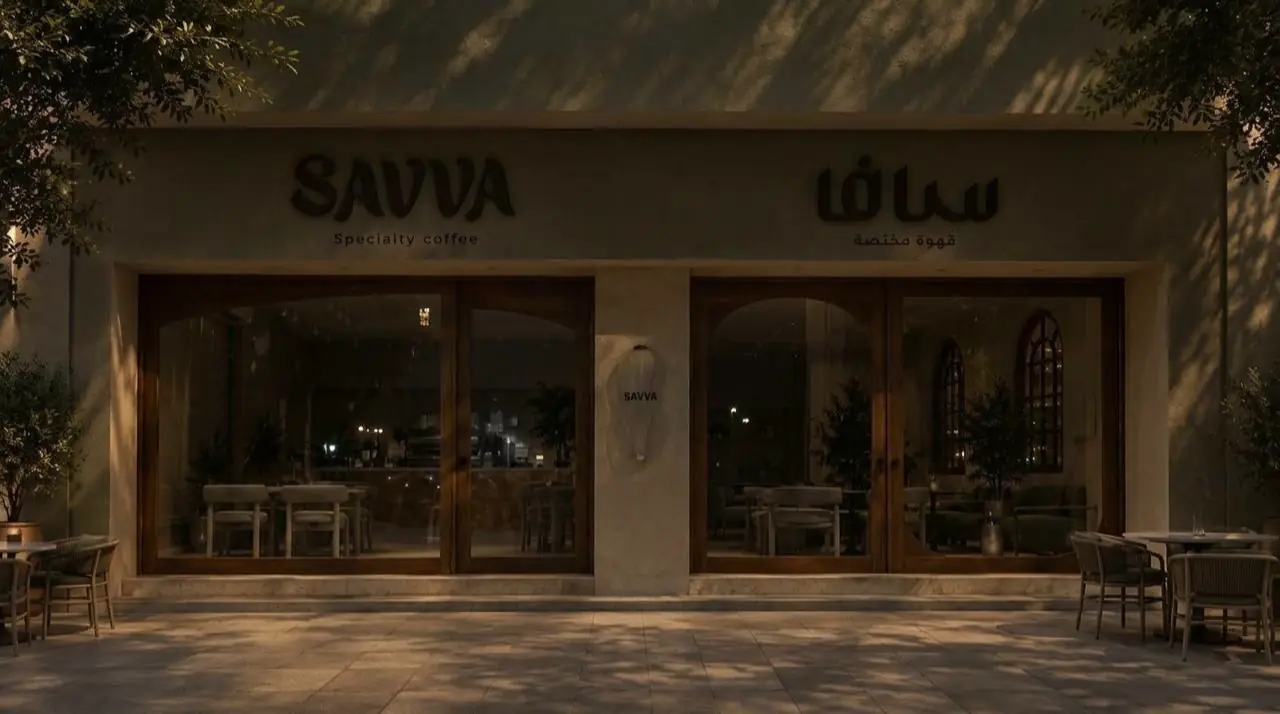
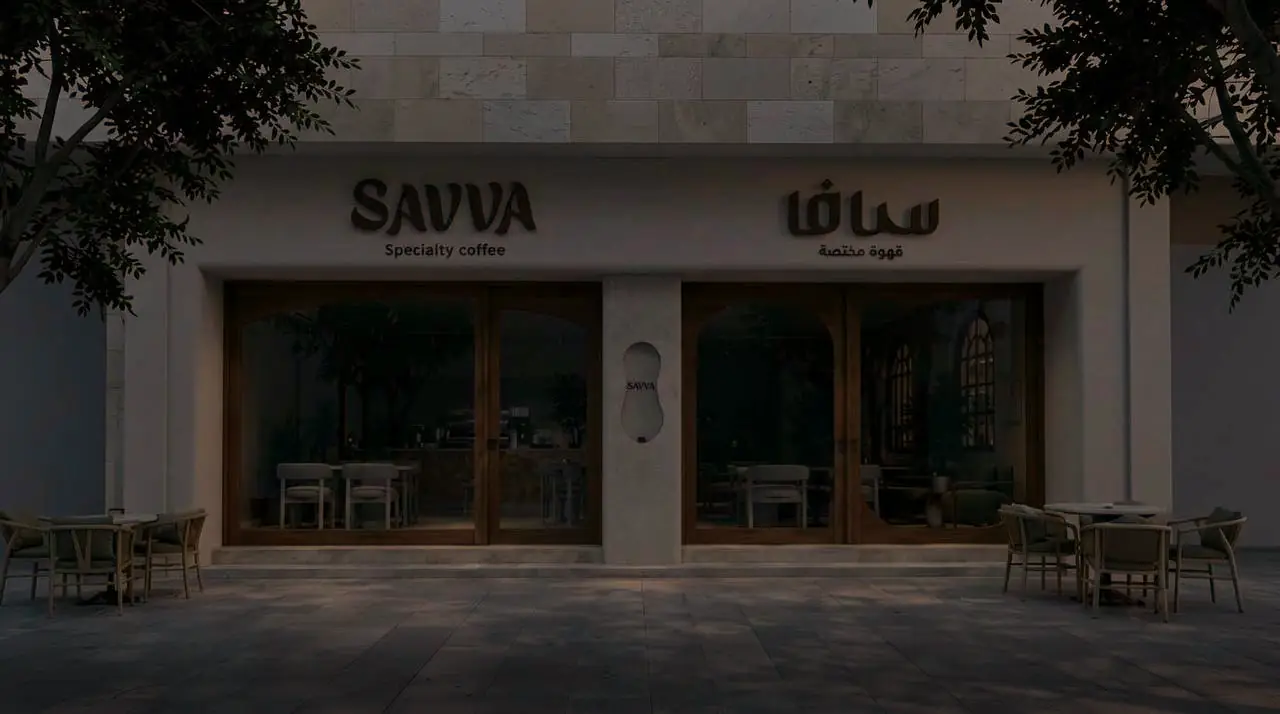
изменил херо на телефонной версии

diff --git a/index.html b/index.html
@@ -183,17 +183,18 @@ svg.i--s{width:15px;height:15px;stroke-width:1.92}   /* 1.6px на сетке 18
 
 /* ---------- 6. ПОЛНЫЙ КАДР ------------------------------------- */
 /* Кадр на всю высоту. Текст — компактным блоком в левом нижнем углу,
-   фасад и обе вывески остаются открытыми. Тень не растянута на пол-экрана,
-   а лежит пятном ровно под блоком: сам кадр она почти не трогает. */
+   фасад и обе вывески остаются открытыми.
+   Затемнения поверх кадра нет (решение заказчика 8 окт): тень лежит только
+   у самих букв и появляется вместе с текстом. Текст стоит на тротуаре,
+   а не на светлых окнах — читается за счёт места, а не плёнки. */
 /* тёмный фон самой секции — чтобы кремовый текст не пропал,
    если фотография почему-то не загрузится */
 #v6{position:relative;background:var(--olive-deep)}
 #v6 .facade{position:absolute;inset:0;height:100%}
-#v6 .wash{position:absolute;inset:0;z-index:2;pointer-events:none;
-  background:radial-gradient(ellipse 90% 55% at 0% 100%,
-             rgba(26,24,15,.93) 0%,rgba(26,24,15,.88) 45%,rgba(26,24,15,.78) 70%,
-             rgba(26,24,15,.45) 85%,rgba(26,24,15,.15) 95%,transparent 100%)}
-[dir=rtl] #v6 .wash{transform:scaleX(-1)}
+#v6 .col{--ts:0 1px 2px rgba(26,24,15,.6),0 0 12px rgba(26,24,15,.5),0 0 32px rgba(26,24,15,.45)}
+#v6 .over,#v6 .display,#v6 .lead,#v6 .btn{text-shadow:var(--ts)}
+/* надзаголовок мелкий и стоит ближе всех к освещённому входу — тень плотнее */
+#v6 .over{text-shadow:0 1px 2px rgba(26,24,15,.8),0 0 8px rgba(26,24,15,.65),0 0 24px rgba(26,24,15,.5)}
 #v6 .stage{position:relative;z-index:3;min-height:calc(100svh - var(--bar));
            display:flex;align-items:flex-end;padding-block:0 clamp(40px,7svh,80px)}
 #v6 .col{max-width:400px}
@@ -212,23 +213,31 @@ svg.i--s{width:15px;height:15px;stroke-width:1.92}   /* 1.6px на сетке 18
 
 @media (max-width:980px){
   .hdr nav{display:none}
-  /* на узком экране текст лежит колонкой снизу — значит и сход должен
-     идти снизу вверх, а не от левого края */
-  #v6 .wash{background:linear-gradient(to top,rgba(26,24,15,.92) 0%,rgba(26,24,15,.88) 26%,
-            rgba(26,24,15,.76) 42%,rgba(26,24,15,.4) 56%,rgba(26,24,15,.1) 68%,transparent 78%)}
   #v6 .col{max-width:none}
   /* на телефоне две кнопки в ряд не помещаются и блок растёт в два этажа.
      Вторая становится Ссылкой-стрелкой — компонент из той же системы */
   #v6 .btn--secondary{border:0;padding:14px 0}
-  [dir=rtl] #v6 .wash{transform:none}
   #v6 .lead{max-width:none}
 }
 /* вертикальный кадр (телефон стоя): фасад целиком в верхней половине,
-   текст на тротуаре. Кадр чуть крупнее и сдвинут вверх, чтобы между окнами
-   и текстом остался воздух; сход начинается ниже окон и фасад не трогает */
-#v6.tall .frame{--zoom:1.12;--fy:55%}
-#v6.tall .wash{background:linear-gradient(to top,rgba(26,24,15,.9) 0%,rgba(26,24,15,.86) 30%,
-          rgba(26,24,15,.7) 40%,rgba(26,24,15,.35) 47%,transparent 55%)}
+   текст на тротуаре. Кадр уже собран так, что фасад заполняет ширину
+   экрана, поэтому без увеличения */
+#v6.tall .frame{--fy:50%}
+/* широкий кадр (компьютер): фасад отодвинут, но тротуара в кадре мало.
+   Решение заказчика 8 окт: текст меньше и ниже, кнопки прежние — они ведут
+   к главным действиям. Кадр прижат к низу: если не влезает по высоте,
+   обрезается каменная стена сверху, а не тротуар под текстом. */
+#v6:not(.tall) .frame{--fy:100%}
+@media (min-width:981px){
+  #v6:not(.tall) .stage{padding-block-end:28px}
+  #v6:not(.tall) .col{max-width:680px}
+  #v6:not(.tall) .over{margin-bottom:6px}
+  /* две ровные строки вместо трёх: переносы <br> только для узких экранов */
+  #v6:not(.tall) .display{font-size:clamp(28px,2.1vw,34px);max-width:13em;text-wrap:balance}
+  #v6:not(.tall) .display br{display:none}
+  #v6:not(.tall) .lead{margin-top:8px;font-size:15px;max-width:none}
+  #v6:not(.tall) .acts{margin-top:16px}
+}
 @media (max-width:620px){
   .hdr{gap:16px;padding-block:14px}
 }
@@ -446,7 +455,6 @@ html.anim .sec[data-anim=words] .slot--photo.a-in img{transform:none;transition:
 
 <section class="v" id="v6">
   <div class="facade" style="--fy:46%"></div>
-  <span class="wash"></span>
   <header class="hdr hdr--photo on-photo">
     <a class="brand" href="#"><b>SAVVA</b></a>
     <nav><a href="#menu1">Menu</a><a href="#inside">Atmosphere</a><a href="#find1">Find us</a></nav>
@@ -457,7 +465,7 @@ html.anim .sec[data-anim=words] .slot--photo.a-in img{transform:none;transition:
     <div class="wrap">
       <div class="col">
         <p class="over ent" style="--d:1500ms">Bir Uthman, Medina</p>
-        <p class="display ent" style="--d:1600ms">A day in savva<br>is what you need<br>to be savva.</p>
+        <p class="display ent" style="--d:1600ms">A day in savva <br>is what you need <br>to be savva.</p>
         <p class="lead ent" style="--d:1750ms">Specialty coffee under the olive trees. Open from half past six in the morning until two at night.</p>
         <div class="acts ent" style="--d:1900ms">
           <a class="btn btn--primary" href="https://www.google.com/maps/search/?api=1&query=SAVVA+Coffee+Bir+Uthman+Madinah"><svg viewBox="0 0 18 18" class="i i--s"><use href="#ic-pin"/></svg>Get directions</a>
@@ -653,7 +661,7 @@ const frame = document.createElement('div');
 frame.className = 'frame';
 facade.prepend(frame);
 function buildFacade() {
-  const [w, h] = TALL.matches ? [714, 1280] : [1280, 714];
+  const [w, h] = TALL.matches ? [572, 1024] : [1280, 714];
   const alt = 'SAVVA coffee shop facade in the evening, Bir Uthman, Madinah';
   frame.style.setProperty('--ar', w / h);
   facade.parentElement.classList.toggle('tall', TALL.matches);

diff --git a/materials/hero/scripts/phone.js b/materials/hero/scripts/phone.js
@@ -1,0 +1,28 @@
+// node phone.js on.png off.png — телефонный набор: убрать значок, подогнать тёмный кадр, затухание тротуара → lit_p.png / off_p.png
+const { execFileSync } = require('child_process');
+const S = __dirname, [onF, offF] = [process.argv[2], process.argv[3]], W = 572, H = 1024, K = 0.5;
+const rd = f => execFileSync('ffmpeg', ['-v','error','-i',f,'-f','rawvideo','-pix_fmt','rgb24','-'], { maxBuffer: 1 << 28 });
+const wr = (b, f) => execFileSync('ffmpeg', ['-v','error','-y','-f','rawvideo','-pix_fmt','rgb24','-s',W+'x'+H,'-i','-',f], { input: b });
+const L = Float32Array.from({ length: 256 }, (_, i) => { const v = i / 255; return v <= .04045 ? v / 12.92 : ((v + .055) / 1.055) ** 2.4; });
+const SRGB = v => Math.round(255 * Math.min(1, v <= .0031308 ? v * 12.92 : 1.055 * v ** (1 / 2.4) - .055));
+const on = rd(onF), off = rd(offF);
+// 1) значок Gemini: область [453,903,512,962] закрываем соседним куском того же ряда плитки (на 62 px левее), края растушёваны
+function patch(b) { const [x0,y0,x1,y1,sh,f] = [453,903,512,962,62,7]; const o = Buffer.from(b);
+  for (let y = y0 - f; y < y1 + f; y++) for (let x = x0 - f; x < x1 + f; x++) {
+    const e = Math.min(1, Math.min(x - x0 + f, x1 + f - x, y - y0 + f, y1 + f - y) / (2 * f));
+    for (let c = 0; c < 3; c++) { const i = (y*W+x)*3+c; o[i] = Math.round(b[i] * (1 - e) + b[(y*W+x-sh)*3+c] * e); } }
+  return o; }
+const onP = patch(on), offP = patch(off);
+// 2) цвет и яркость тёмного: на стене и тротуаре (там нет ламп) = K от горящего, оттенок горящего
+const regs = [[100,40,340,250],[100,580,500,880]];
+const sa = [0,0,0], sb = [0,0,0];
+for (const [x0,y0,x1,y1] of regs) for (let y = y0; y < y1; y++) for (let x = x0; x < x1; x++) for (let c = 0; c < 3; c++) { sa[c] += L[onP[(y*W+x)*3+c]]; sb[c] += L[offP[(y*W+x)*3+c]]; }
+const g = sa.map((v, c) => K * v / sb[c]); console.log('gain', g.map(v => v.toFixed(2)).join(' '));
+const offG = Buffer.alloc(offP.length); for (let i = 0; i < offP.length; i++) offG[i] = SRGB(L[offP[i]] * g[i % 3]);
+// 3) свет кафе гаснет по тротуару (одинаково в обоих кадрах)
+const [r0, r1, fmin] = [520, 830, 0.33];
+function fall(b) { const o = Buffer.alloc(b.length); for (let y = 0; y < H; y++) { let t = Math.min(1, Math.max(0, (y - r0) / (r1 - r0))); t = t*t*(3-2*t); const f = 1 - (1 - fmin) * t;
+  for (let x = 0; x < W * 3; x++) { const i = y*W*3+x; o[i] = SRGB(L[b[i]] * f); } } return o; }
+wr(onP, S + '/lit_p0.png'); wr(offG, S + '/off_p0.png');   // до затухания: по ним считаются маски
+wr(fall(onP), S + '/lit_p.png'); wr(fall(offG), S + '/off_p.png');
+console.log('ok');

diff --git a/materials/hero/scripts/grade.js b/materials/hero/scripts/grade.js
@@ -1,0 +1,16 @@
+// node grade.js lit off out k — красим погашенный кадр в оттенок горящего на «нейтральных» местах (стена, тротуар), яркость = k от горящего
+const { execFileSync } = require('child_process');
+const [lit, off, out, k] = [process.argv[2], process.argv[3], process.argv[4], +process.argv[5]];
+const W = 1280, H = 714;
+const rd = f => execFileSync('ffmpeg', ['-v','error','-i',f,'-vf',`scale=${W}:${H}`,'-f','rawvideo','-pix_fmt','rgb24','-'], { maxBuffer: 1 << 28 });
+const L = Float32Array.from({ length: 256 }, (_, i) => { const v = i / 255; return v <= .04045 ? v / 12.92 : ((v + .055) / 1.055) ** 2.4; });
+const S = v => Math.round(255 * Math.min(1, v <= .0031308 ? v * 12.92 : 1.055 * v ** (1 / 2.4) - .055));
+const a = rd(lit), b = rd(off);
+// стена над фасадом и тротуар — там нет ламп
+const regs = [[330, 0, 1000, 120], [250, 600, 1000, 714]];
+const sa = [0,0,0], sb = [0,0,0];
+for (const [x0,y0,x1,y1] of regs) for (let y = y0; y < y1; y++) for (let x = x0; x < x1; x++) for (let c = 0; c < 3; c++) { sa[c] += L[a[(y*W+x)*3+c]]; sb[c] += L[b[(y*W+x)*3+c]]; }
+const g = sa.map((v, c) => k * v / sb[c]);
+console.log('gain rgb', g.map(v => v.toFixed(2)).join(' '));
+const o = Buffer.alloc(b.length); for (let i = 0; i < b.length; i++) o[i] = S(L[b[i]] * g[i % 3]);
+execFileSync('ffmpeg', ['-v','error','-y','-f','rawvideo','-pix_fmt','rgb24','-s',W+'x'+H,'-i','-',out], { input: o });

diff --git a/materials/hero/scripts/falloff.js b/materials/hero/scripts/falloff.js
@@ -1,0 +1,14 @@
+// node falloff.js in out W H r0 r1 fmin — свет от кафе гаснет по тротуару: ниже строки r0 яркость плавно падает до fmin к строке r1 (в линейном свете)
+const { execFileSync } = require('child_process');
+const [inp, out, W, H, r0, r1, fmin] = [process.argv[2], process.argv[3], +process.argv[4], +process.argv[5], +process.argv[6], +process.argv[7], +process.argv[8]];
+const src = execFileSync('ffmpeg', ['-v','error','-i',inp,'-f','rawvideo','-pix_fmt','rgb24','-'], { maxBuffer: 1 << 28 });
+const toL = v => { v /= 255; return v <= .04045 ? v / 12.92 : ((v + .055) / 1.055) ** 2.4; };
+const toS = v => Math.round(255 * Math.min(1, v <= .0031308 ? v * 12.92 : 1.055 * v ** (1 / 2.4) - .055));
+const LUT = Float32Array.from({ length: 256 }, (_, i) => toL(i));
+const dst = Buffer.alloc(src.length);
+for (let y = 0; y < H; y++) {
+  let t = Math.min(1, Math.max(0, (y - r0) / (r1 - r0))); t = t * t * (3 - 2 * t);
+  const f = 1 - (1 - fmin) * t;
+  for (let x = 0; x < W * 3; x++) { const i = y * W * 3 + x; dst[i] = toS(LUT[src[i]] * f); }
+}
+execFileSync('ffmpeg', ['-v','error','-y','-f','rawvideo','-pix_fmt','rgb24','-s',W+'x'+H,'-i','-',out], { input: dst });

diff --git a/materials/hero/scripts/hshift.js b/materials/hero/scripts/hshift.js
@@ -1,0 +1,10 @@
+// node hshift.js in out W H "x0:d0,x1:d1" — столбец x берётся из x + d(x), d — ломаная
+const { execFileSync } = require('child_process');
+const [inp, out, W, H, pts] = [process.argv[2], process.argv[3], +process.argv[4], +process.argv[5], process.argv[6]];
+const P = pts.split(',').map(s => s.split(':').map(Number));
+const d = x => { if (x <= P[0][0]) return P[0][1]; for (let i = 1; i < P.length; i++) if (x <= P[i][0]) { const [a, da] = P[i-1], [b, db] = P[i]; return da + (db - da) * (x - a) / (b - a); } return P[P.length-1][1]; };
+const src = execFileSync('ffmpeg', ['-v','error','-i',inp,'-f','rawvideo','-pix_fmt','rgb24','-'], { maxBuffer: 1 << 28 });
+const dst = Buffer.alloc(W * H * 3);
+for (let x = 0; x < W; x++) { const sx = Math.min(W - 1, Math.max(0, x + d(x))), x0 = Math.floor(sx), x1 = Math.min(W - 1, x0 + 1), t = sx - x0;
+  for (let y = 0; y < H; y++) for (let c = 0; c < 3; c++) dst[(y*W+x)*3+c] = Math.round(src[(y*W+x0)*3+c] * (1 - t) + src[(y*W+x1)*3+c] * t); }
+execFileSync('ffmpeg', ['-v','error','-y','-f','rawvideo','-pix_fmt','rgb24','-s',W+'x'+H,'-i','-',out], { input: dst });

diff --git a/materials/hero/scripts/build.js b/materials/hero/scripts/build.js
@@ -9,6 +9,12 @@ const CFG = {
         en:   { r: [[262,128,552,262]], f: 18, lo: .01, hi: .07 },
         ar:   { r: [[786,134,1026,262]], f: 18, lo: .01, hi: .07 },
         out:  { r: [[1170,420,1280,580],[0,190,60,320]], f: 24, lo: .01, hi: .06 } } },
+  p: { lit: S + "/lit_p0.png", off: S + "/off_p0.png", W: 572, H: 1024, zones: {
+        room: { r: [[92,360,274,490],[302,360,474,490],[84,350,486,372]], f: 8, lo: .004, hi: .03 },
+        bra:  { r: [[268,386,306,448]], f: 8, lo: .01, hi: .08 },
+        en:   { r: [[138,306,260,368]], f: 10, lo: .01, hi: .07 },
+        ar:   { r: [[336,306,438,368]], f: 10, lo: .01, hi: .07 },
+        out:  { r: [[32,378,72,480],[496,378,538,480]], f: 12, lo: .01, hi: .06 } } },
   m: { lit: S + '/lit_m.jpg', off: S + '/off_m.png', W: 714, H: 1280, zones: {
         room: { r: [[80,546,330,722],[386,546,632,722],[66,532,650,560]], f: 10, lo: .004, hi: .03 },
         bra:  { r: [[332,570,384,668]], f: 10, lo: .01, hi: .08 },

diff --git a/статус.md b/статус.md
@@ -14,6 +14,10 @@
 
 **Сделано 8 октября: загорание фасада переделано целиком** (подробно — раздел 12). Настоящий тёмный кадр вместо фильтра, маски по форме настоящих ламп, в конце ровно оригинал без пересвета, на телефоне свой вертикальный кадр с обеими вывесками. Новые файлы `assets/facade-*.webp`; старые `hero-off/hero-light.webp` оставлены только для архивных `веер-1/2/3`. Не проверено: на настоящем телефоне. Замечено, не чинилось (раскладка экрана, не свет): на телефоне боком текст наезжает на вывеску SAVVA; на iPhone SE строка «Bir Uthman» касается низа окон. Дальше по плану ниже — доводка следующего блока.
 
+**8 октября, вечер: затемнение под текстом героя убрано совсем** (заказчик: «страшное, портит кадр, особенно до появления текста»). Вместо плёнки: у букв мягкая тень (`--ts` в `#v6 .col`), появляется только вместе с текстом; на телефоне свет кафе гаснет по тротуару прямо в снимке (`falloff.js`). Контраст на телефоне: лид ≥6.6, кнопки ≥7.2, заголовок ≥3.0, надзаголовок 2.6–4.4 (вытягивает тень). **На компьютере сейчас временно хуже:** текст стоит на светлом окне зала (1.3–1.8 без плёнки). **Сделано позже 8 октября:** заказчик прислал D (`materials/hero/D.jpg`, светлый фасад — заказчик сам осветлил, «по оригиналу фасад светлее») и E (`E.jpg`). Перегенерировать отказался. E выровнен (правая половина ниже 160-й строки сдвинута на 1 px, `hshift.js`), перекрашен в оттенок D, яркость 0.5 от горящего (`grade.js`, «вариант 2», выбран заказчиком), тротуар `falloff.js 585 714 0.4`, маски `build.js d2`. Стоит на сайте как `facade-on/off.webp` и маски без `-m`. Телефон остался со старым тёмно-оливковым фасадом (B/C) — разнобой фасадов сказан заказчику. **Открыто:** на компьютере текст героя стоит на нижней части левого окна, контраст ~2 при норме 4.5 (фасад отодвинут мало, тротуар ~1/5 экрана, блок текста ~1/3). **Решение заказчика: текст меньше и ниже, кнопки прежние** (ведут к главным действиям). Сделано только для широкого набора (`#v6:not(.tall)`, ≥981px): заголовок `clamp(28px,2.1vw,34px)` в две ровные строки (переносы `<br>` скрыты, `text-wrap:balance`), лид 15px в одну строку, отступы меньше, низ блока 28px, кадр прижат к низу (`--fy:100%`, обрезается каменная стена сверху). Тротуар гаснет сильнее: `falloff.js 570 690 0.3` на обоих кадрах. Контраст на 1584×914 без учёта тени букв: кнопки 5.7/7.9, лид 2.9/4.5, заголовок 1.7/3.0 (стоит на освещённой ступеньке; крупный, с тенью читается), надзаголовок 2.1/3.9. На низком ноутбуке 1280×650 заголовок заходит на низ окна. Заголовок 34px — вне шкалы дизайн-системы (между H3 24 и H2 42), выбран по просьбе «меньше, но не слишком». Холст `canvas-D.png` остался на случай, если захотим довести.
+
+**25 октября: телефонный кадр заменён на светлый фасад, как на компьютере.** Заказчик сгенерировал по холсту `canvas-M.png` две картинки 572×1024 (`materials/hero/phone-on.png`, `phone-off.png`). Я: убрал значок Gemini (правый нижний угол, обе картинки), яркость и цвет тёмного подогнал под горящий (0.5, как на компьютере), тротуар гаснет по `falloff` (520→830, до 0.33), маски зон из разницы (`build.js p`), всё в `assets/facade-*-m.webp` (весь телефонный набор ~63 КБ вместо ~210). В `index.html`: размер кадра в скрипте 572×1024, `#v6.tall .frame` без увеличения. Скрипты: `materials/hero/scripts/phone.js`, `build.js`. Контраст на 375×812: заголовок 6.2, описание 12, кнопки 14, надзаголовок 3.7–5.1. Фасады на компьютере и телефоне теперь одинаковые. Не проверено на настоящем телефоне. На экране 360×640 текст заходит на окна (старая особенность).
+
 **Что делаем дальше (план заказчика, по порядку):**
 1. ~~**Вставить фото~~ (СДЕЛАНО, кроме карты)  в готовые пустые места** (шаг 8 дорожной карты). Места размечены рамками с русскими подписями: экран 2 (4:5, интерьер), экран 3 «Ремесло» (4:5, бариста над V60), экран 5 «Вечером» (круг 1:1, десертная витрина), экран 6 «Как внутри» (4:5 и 3:2), «Как нас найти» (4:3, карта). Фото заказчик пришлёт сам. Реальные фото сильнее генерации, сжимать до ~100 КБ, цвет фото сверить с палитрой на живой странице. Десертных фото нет, не выдумывать.
 2. **Довести каждый блок отдельно, сверху вниз** (шаг 7): по одному блоку, не всё сразу.

diff --git a/materials/hero/scripts/README.md b/materials/hero/scripts/README.md
@@ -10,3 +10,5 @@
 4. Сжатие в WebP: горящий 16:9 q80, погашенный 16:9 q72, горящий вертикальный q72, погашенный вертикальный q66; маски — 2/3 размера, без потерь.
 
 Скрипты ждут промежуточные файлы (`lit_d.png`, `off_d.png`, `lit_m.jpg`, `off_m.png`) рядом с собой. Нужны node и ffmpeg.
+
+5. (8 окт, вечер) Затемнение-плёнка под текстом убрано. Вместо него свет кафе гаснет по тротуару прямо в снимке: `falloff.js lit_m.jpg … 714 1280 760 1010 0.22` и то же для `off_m.png` (одинаково для обоих кадров, иначе при загорании низ кадра темнел бы). Фасад не трогается.
